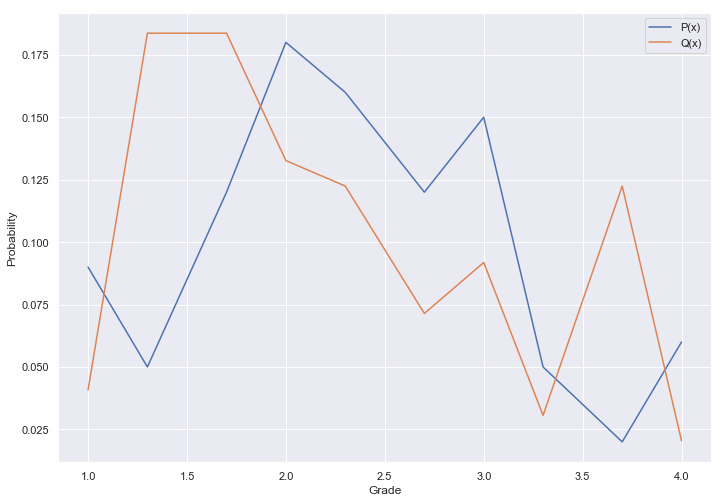
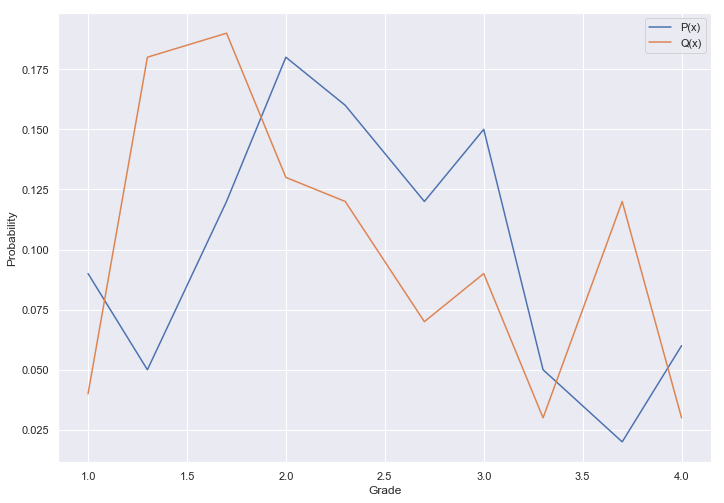
changes

diff --git a/docs/change_detection/change_detection.md b/docs/change_detection/change_detection.md
@@ -23,7 +23,7 @@ Given below are the observed frequencies of grades obtained by a sample of OVGU 
 
 ```python
 d = {'2018':[9, 5, 12, 18, 16, 12, 15, 5, 2, 6], 
-     '2019':[4, 18, 18, 13, 12, 7, 9, 3, 12, 2],
+     '2019':[4, 18, 19, 13, 12, 7, 9, 3, 12, 3],
      'Grade': [1.0, 1.3, 1.7, 2.0, 2.3, 2.7, 3.0, 3.3, 3.7, 4.0]}
 grades = pd.DataFrame(d).set_index('Grade')
 grades
@@ -73,7 +73,7 @@ grades
     <tr>
       <th>1.7</th>
       <td>12</td>
-      <td>18</td>
+      <td>19</td>
     </tr>
     <tr>
       <th>2.0</th>
@@ -108,7 +108,7 @@ grades
     <tr>
       <th>4.0</th>
       <td>6</td>
-      <td>2</td>
+      <td>3</td>
     </tr>
   </tbody>
 </table>
@@ -178,70 +178,70 @@ grades
       <td>9</td>
       <td>4</td>
       <td>0.09</td>
-      <td>0.040816</td>
+      <td>0.04</td>
     </tr>
     <tr>
       <th>1.3</th>
       <td>5</td>
       <td>18</td>
       <td>0.05</td>
-      <td>0.183673</td>
+      <td>0.18</td>
     </tr>
     <tr>
       <th>1.7</th>
       <td>12</td>
-      <td>18</td>
+      <td>19</td>
       <td>0.12</td>
-      <td>0.183673</td>
+      <td>0.19</td>
     </tr>
     <tr>
       <th>2.0</th>
       <td>18</td>
       <td>13</td>
       <td>0.18</td>
-      <td>0.132653</td>
+      <td>0.13</td>
     </tr>
     <tr>
       <th>2.3</th>
       <td>16</td>
       <td>12</td>
       <td>0.16</td>
-      <td>0.122449</td>
+      <td>0.12</td>
     </tr>
     <tr>
       <th>2.7</th>
       <td>12</td>
       <td>7</td>
       <td>0.12</td>
-      <td>0.071429</td>
+      <td>0.07</td>
     </tr>
     <tr>
       <th>3.0</th>
       <td>15</td>
       <td>9</td>
       <td>0.15</td>
-      <td>0.091837</td>
+      <td>0.09</td>
     </tr>
     <tr>
       <th>3.3</th>
       <td>5</td>
       <td>3</td>
       <td>0.05</td>
-      <td>0.030612</td>
+      <td>0.03</td>
     </tr>
     <tr>
       <th>3.7</th>
       <td>2</td>
       <td>12</td>
       <td>0.02</td>
-      <td>0.122449</td>
+      <td>0.12</td>
     </tr>
     <tr>
       <th>4.0</th>
       <td>6</td>
-      <td>2</td>
+      <td>3</td>
       <td>0.06</td>
-      <td>0.020408</td>
+      <td>0.03</td>
     </tr>
   </tbody>
 </table>
@@ -305,9 +305,9 @@ grades
       <td>9</td>
       <td>4</td>
       <td>0.09</td>
-      <td>0.040816</td>
+      <td>0.04</td>
       <td>0.09</td>
-      <td>0.040816</td>
+      <td>0.04</td>
       <td>0.05</td>
     </tr>
     <tr>
@@ -315,19 +315,19 @@ grades
       <td>5</td>
       <td>18</td>
       <td>0.05</td>
-      <td>0.183673</td>
+      <td>0.18</td>
       <td>0.14</td>
-      <td>0.224490</td>
+      <td>0.22</td>
       <td>0.08</td>
     </tr>
     <tr>
       <th>1.7</th>
       <td>12</td>
-      <td>18</td>
+      <td>19</td>
       <td>0.12</td>
-      <td>0.183673</td>
+      <td>0.19</td>
       <td>0.26</td>
-      <td>0.408163</td>
+      <td>0.41</td>
       <td>0.15</td>
     </tr>
     <tr>
@@ -335,9 +335,9 @@ grades
       <td>18</td>
       <td>13</td>
       <td>0.18</td>
-      <td>0.132653</td>
+      <td>0.13</td>
       <td>0.44</td>
-      <td>0.540816</td>
+      <td>0.54</td>
       <td>0.10</td>
     </tr>
     <tr>
@@ -345,9 +345,9 @@ grades
       <td>16</td>
       <td>12</td>
       <td>0.16</td>
-      <td>0.122449</td>
+      <td>0.12</td>
       <td>0.60</td>
-      <td>0.663265</td>
+      <td>0.66</td>
       <td>0.06</td>
     </tr>
     <tr>
@@ -355,9 +355,9 @@ grades
       <td>12</td>
       <td>7</td>
       <td>0.12</td>
-      <td>0.071429</td>
+      <td>0.07</td>
       <td>0.72</td>
-      <td>0.734694</td>
+      <td>0.73</td>
       <td>0.01</td>
     </tr>
     <tr>
@@ -365,39 +365,39 @@ grades
       <td>15</td>
       <td>9</td>
       <td>0.15</td>
-      <td>0.091837</td>
+      <td>0.09</td>
       <td>0.87</td>
-      <td>0.826531</td>
-      <td>0.04</td>
+      <td>0.82</td>
+      <td>0.05</td>
     </tr>
     <tr>
       <th>3.3</th>
       <td>5</td>
       <td>3</td>
       <td>0.05</td>
-      <td>0.030612</td>
+      <td>0.03</td>
       <td>0.92</td>
-      <td>0.857143</td>
-      <td>0.06</td>
+      <td>0.85</td>
+      <td>0.07</td>
     </tr>
     <tr>
       <th>3.7</th>
       <td>2</td>
       <td>12</td>
       <td>0.02</td>
-      <td>0.122449</td>
+      <td>0.12</td>
       <td>0.94</td>
-      <td>0.979592</td>
-      <td>0.04</td>
+      <td>0.97</td>
+      <td>0.03</td>
     </tr>
     <tr>
       <th>4.0</th>
       <td>6</td>
-      <td>2</td>
+      <td>3</td>
       <td>0.06</td>
-      <td>0.020408</td>
+      <td>0.03</td>
       <td>1.00</td>
-      <td>1.000000</td>
+      <td>1.00</td>
       <td>0.00</td>
     </tr>
   </tbody>
@@ -455,7 +455,7 @@ We will use the same grade distributions from earlier.
 
 ```python
 d = {'2018':[9, 5, 12, 18, 16, 12, 15, 5, 2, 6], 
-     '2019':[4, 18, 18, 13, 12, 7, 9, 3, 12, 2],
+     '2019':[4, 18, 19, 13, 12, 7, 9, 3, 12, 3],
      'Grade': [1.0, 1.3, 1.7, 2.0, 2.3, 2.7, 3.0, 3.3, 3.7, 4.0]}
 grades = pd.DataFrame(d).set_index('Grade')
 grades
@@ -505,7 +505,7 @@ grades
     <tr>
       <th>1.7</th>
       <td>12</td>
-      <td>18</td>
+      <td>19</td>
     </tr>
     <tr>
       <th>2.0</th>
@@ -540,7 +540,7 @@ grades
     <tr>
       <th>4.0</th>
       <td>6</td>
-      <td>2</td>
+      <td>3</td>
     </tr>
   </tbody>
 </table>
@@ -582,7 +582,6 @@ ax.set(ylabel='Probability', xlabel='Grade')
 plt.show()
 ```
 
-
 <div>
 <style scoped>
     .dataframe tbody tr th:only-of-type {
@@ -620,70 +619,70 @@ plt.show()
       <td>9</td>
       <td>4</td>
       <td>0.09</td>
-      <td>0.040816</td>
+      <td>0.04</td>
     </tr>
     <tr>
       <th>1.3</th>
       <td>5</td>
       <td>18</td>
       <td>0.05</td>
-      <td>0.183673</td>
+      <td>0.18</td>
     </tr>
     <tr>
       <th>1.7</th>
       <td>12</td>
-      <td>18</td>
+      <td>19</td>
       <td>0.12</td>
-      <td>0.183673</td>
+      <td>0.19</td>
     </tr>
     <tr>
       <th>2.0</th>
       <td>18</td>
       <td>13</td>
       <td>0.18</td>
-      <td>0.132653</td>
+      <td>0.13</td>
     </tr>
     <tr>
       <th>2.3</th>
       <td>16</td>
       <td>12</td>
       <td>0.16</td>
-      <td>0.122449</td>
+      <td>0.12</td>
     </tr>
     <tr>
       <th>2.7</th>
       <td>12</td>
       <td>7</td>
       <td>0.12</td>
-      <td>0.071429</td>
+      <td>0.07</td>
     </tr>
     <tr>
       <th>3.0</th>
       <td>15</td>
       <td>9</td>
       <td>0.15</td>
-      <td>0.091837</td>
+      <td>0.09</td>
     </tr>
     <tr>
       <th>3.3</th>
       <td>5</td>
       <td>3</td>
       <td>0.05</td>
-      <td>0.030612</td>
+      <td>0.03</td>
     </tr>
     <tr>
       <th>3.7</th>
       <td>2</td>
       <td>12</td>
       <td>0.02</td>
-      <td>0.122449</td>
+      <td>0.12</td>
     </tr>
     <tr>
       <th>4.0</th>
       <td>6</td>
-      <td>2</td>
+      <td>3</td>
       <td>0.06</td>
-      <td>0.020408</td>
+      <td>0.03</td>
     </tr>
   </tbody>
 </table>
